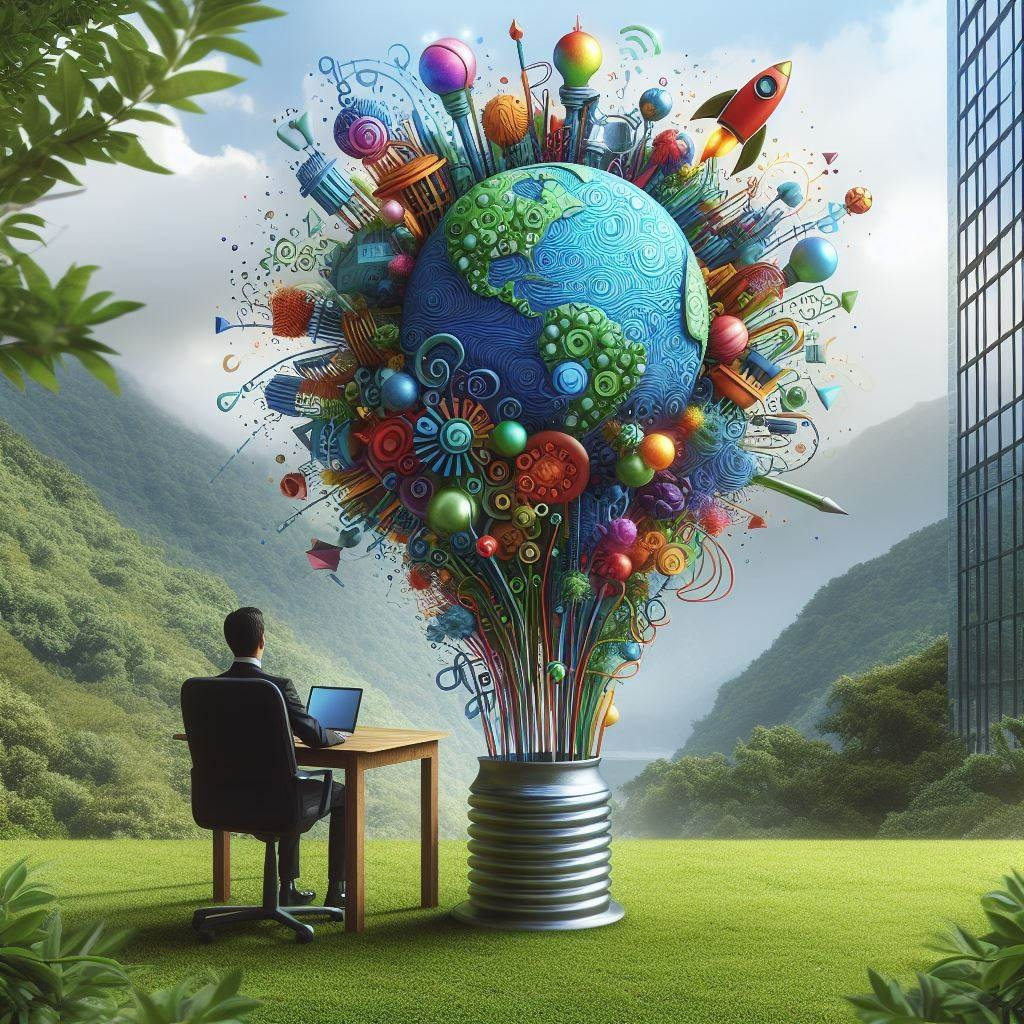
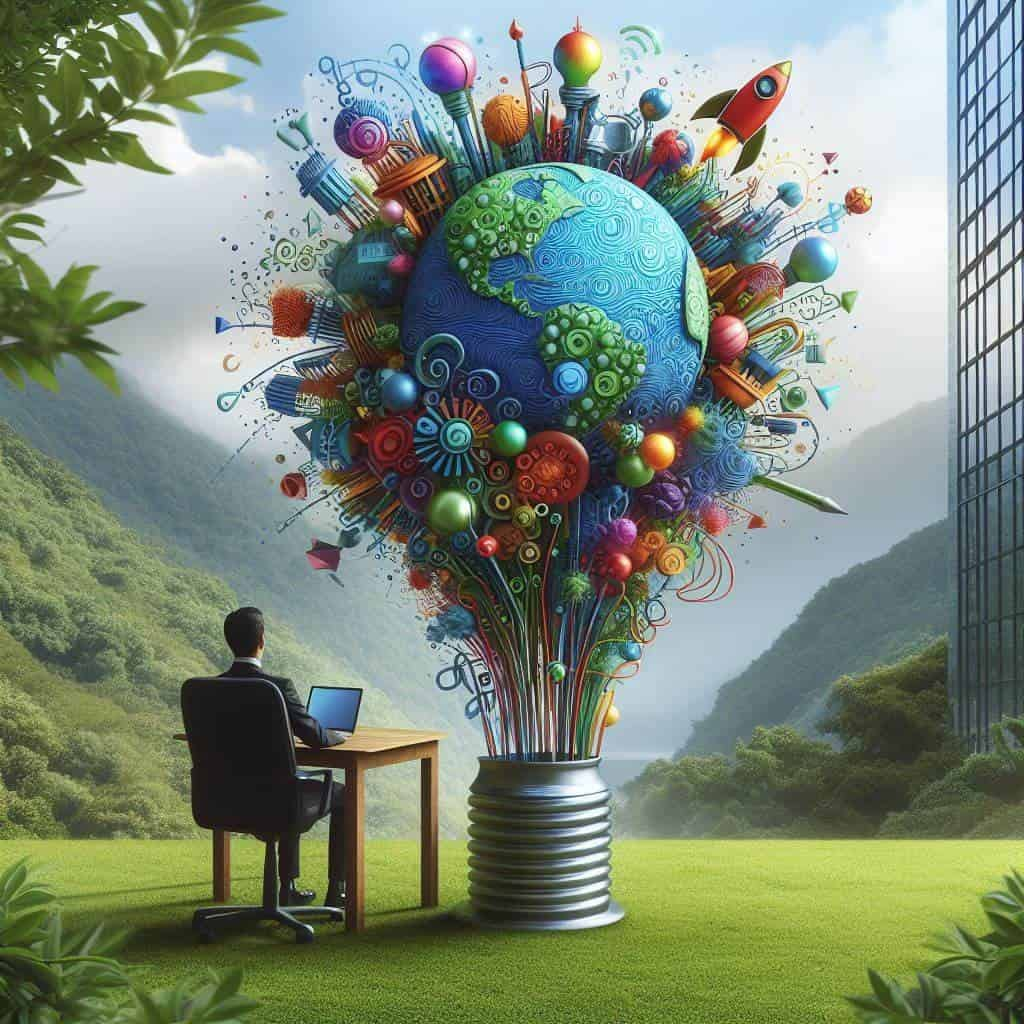
optmized images

diff --git a/summer-camp/index.html b/summer-camp/index.html
@@ -103,7 +103,7 @@
         </div>
         <div class="hero_img-container">
           <div>
-            <img src="images/hero.png" alt="" class="img-fluid">
+            <img src="images/hero.jpg" alt="" class="img-fluid">
           </div>
         </div>
       </div>
